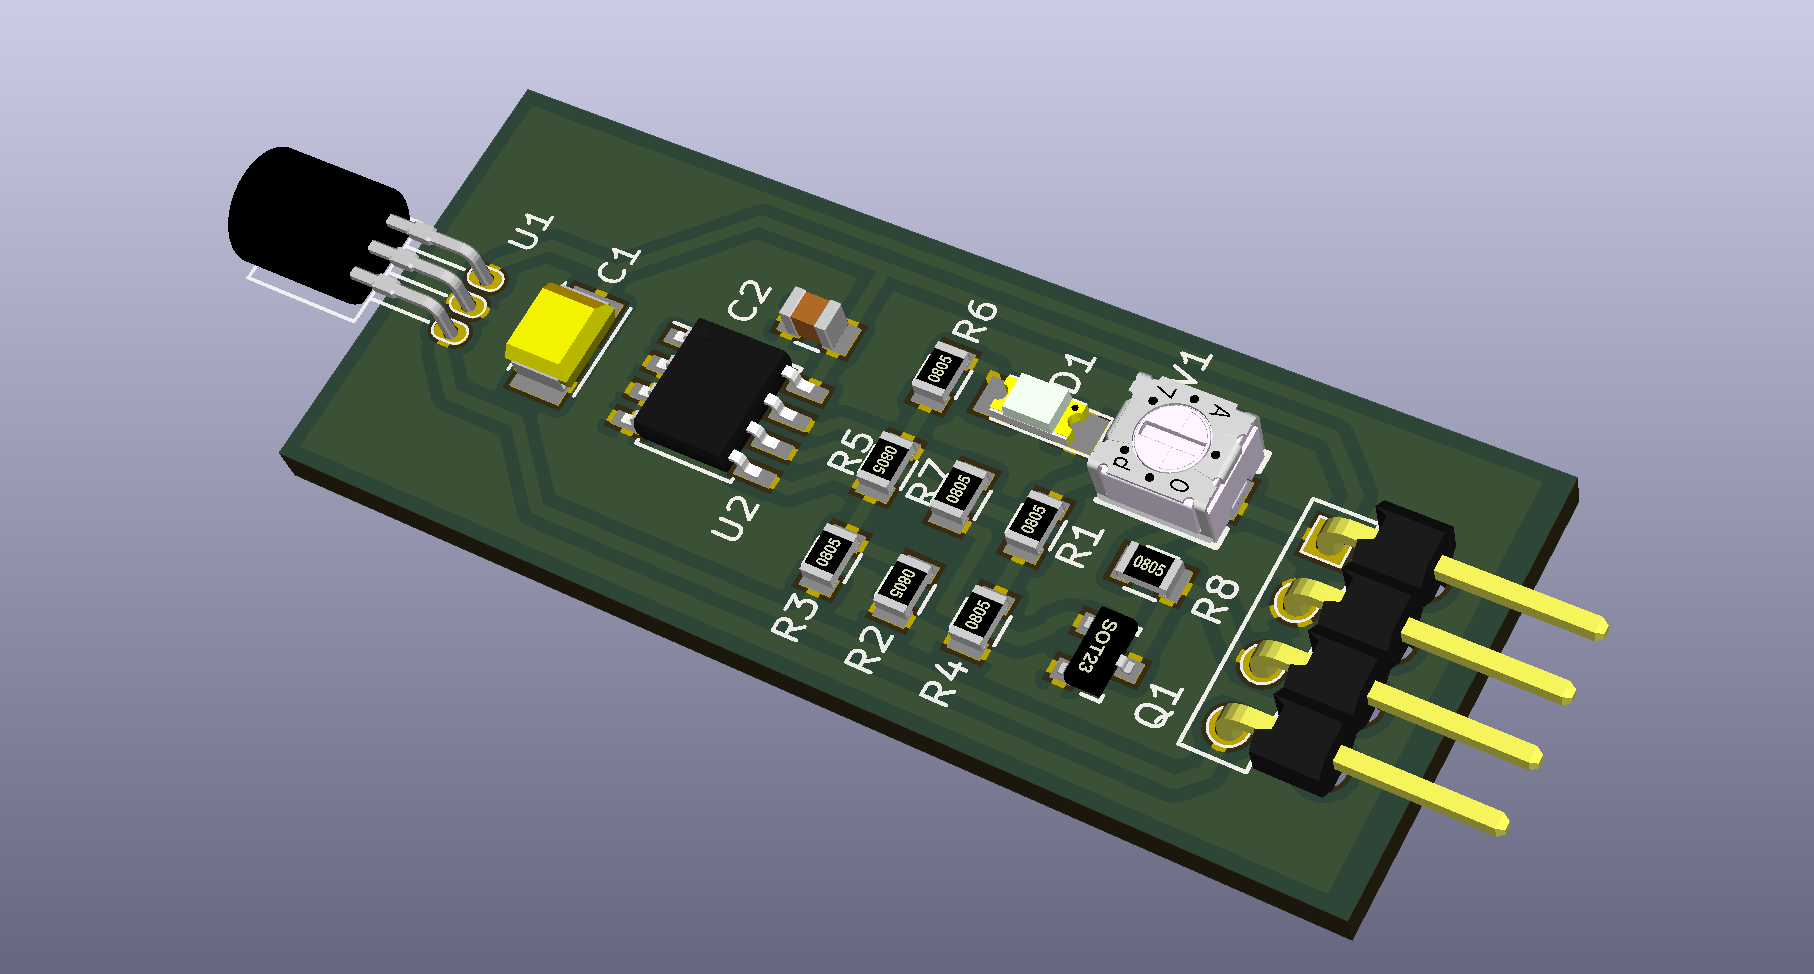
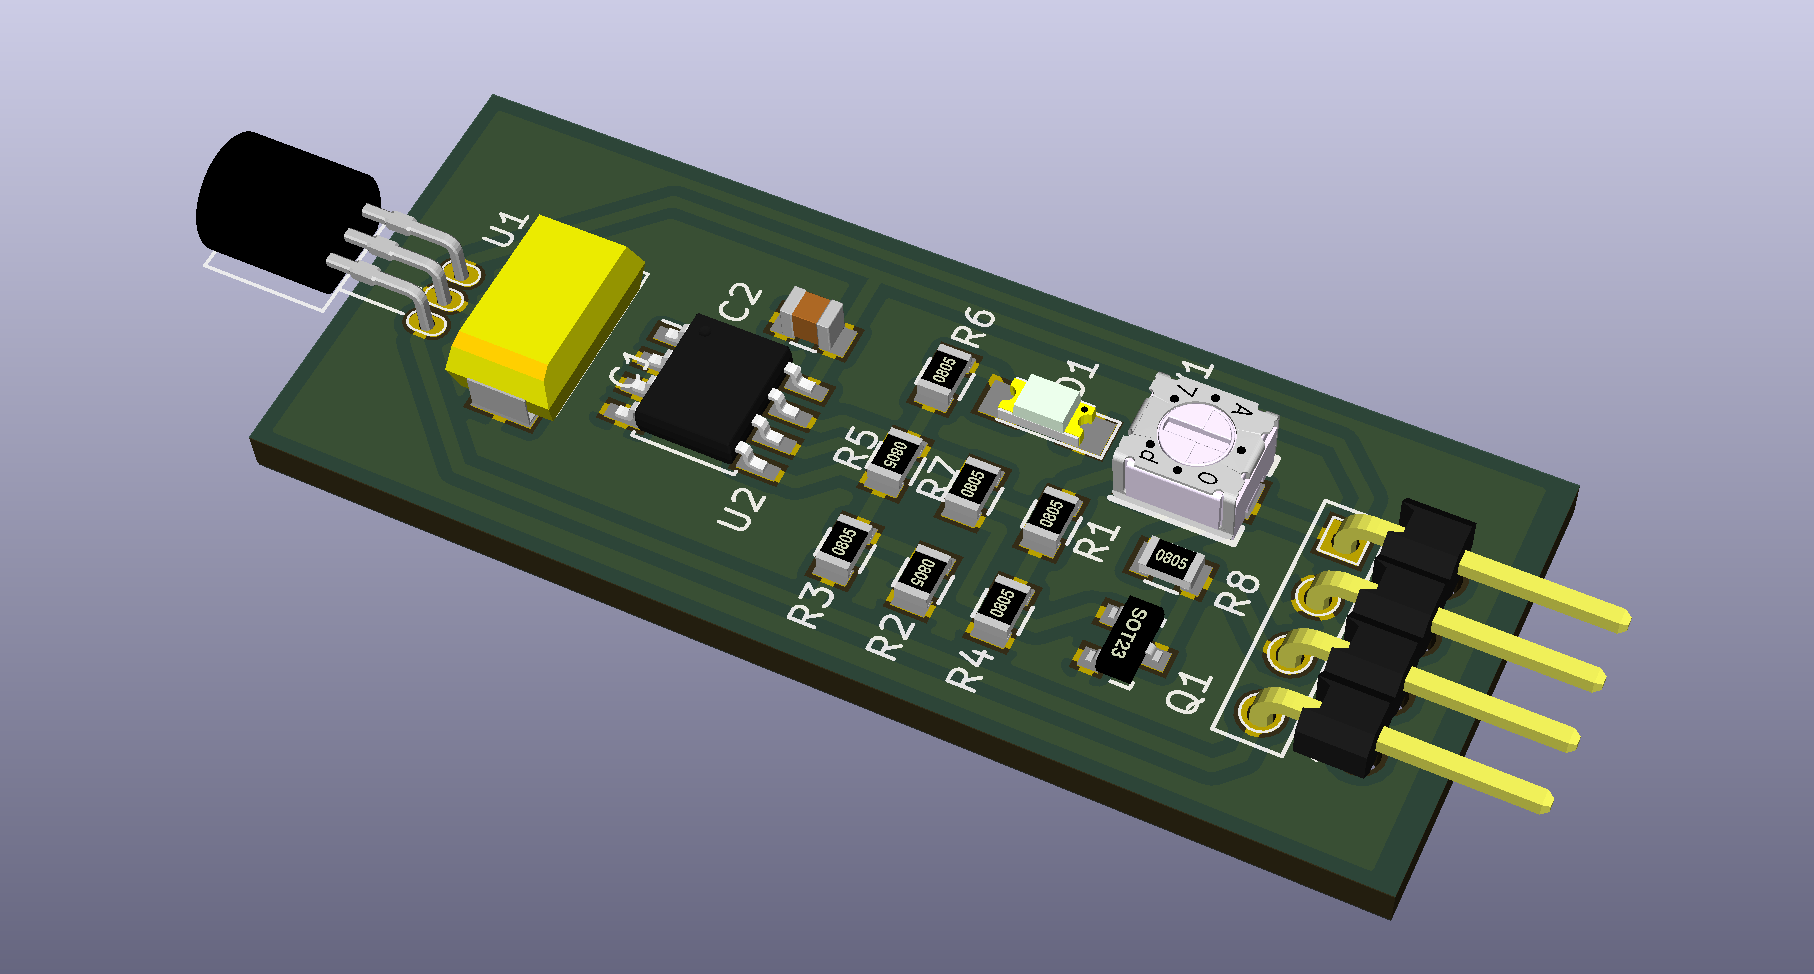
larger tantalum cap

diff --git a/README.md b/README.md
@@ -1,10 +1,18 @@
-hall-o by mauk.cc 
+Hall-O (KiCad)
+==============
 
-slight changes -
-ss495b sensor - easier to find
-lm358D - soic 8 (same as orig?)
-pot - bourns tc33x-2-103e, others will work but may need new footprint
-resistors and caps (except tant.) are all 0805 instead of 1206
-board isn’t shaped like an arrow :(
+Based upon the original Hall-O ([look here](http://reprap.org/wiki/Hall-%CE%98)). This is a single sided board for easier home etching.
 
-license - cc3.0 attribution-sharealike
+Parts list:
+-----------
+- SS495B hall sensor (replacement [SS495A](http://www.reichelt.de/index.html?ACTION=3;ARTICLE=151339;SEARCH=SS495))
+- [LM-258-D](http://www.reichelt.de/index.html?ACTION=3&LA=5&ARTICLE=39446&GROUPID=5464&artnr=LM+258+D) op amp
+- SMD [potentiometer 10K](http://www.reichelt.de/index.html?ACTION=3&LA=5&ARTICLE=146074&GROUPID=3131&artnr=23A-10K)
+- 0805 [SMD resistors](https://www.reichelt.de/SMD-0805/2/index.html?ACTION=2&LA=2&GROUPID=7962) (2x 560, 1x 1K, 3x 10K, 1x 22K, 1x 1M)
+- SMD [capacitor 100nF](http://www.reichelt.de/index.html?ACTION=3&LA=2&ARTICLE=31879&GROUPID=8048&artnr=X7R-G0805+100N&SEARCH=%252A)
+- SMD [tantalum capacitor 10µF/16V](http://www.reichelt.de/index.html?ACTION=3&LA=446&ARTICLE=31347&GROUPID=3147&artnr=SMD+TAN.10%2F16&SEARCH=SMD%2BTAN) 
+- 1206 LED ([example](http://www.reichelt.de/index.html?ACTION=3&LA=2&ARTICLE=156250&GROUPID=3035&artnr=LED+EL+1206+OR&SEARCH=%252A), blue or white requires other resistor, replace R6)
+- [BC848](http://www.reichelt.de/index.html?ACTION=3&LA=5&ARTICLE=18564&GROUPID=7206&artnr=BC+848A+SMD) SMD transistor
+- 1x4 angled [pin headers](http://www.reichelt.de/index.html?ACTION=3&LA=2&ARTICLE=19507&GROUPID=7434&artnr=SL+1X40W+2%2C54&SEARCH=%252A) or [connector](http://www.reichelt.de/index.html?ACTION=3&LA=5&ARTICLE=137974&GROUPID=7525&artnr=PSS+254%2F4W)
+- (or solder wires directly and route wires through holes)
+- in order to activate: neodym magnet
